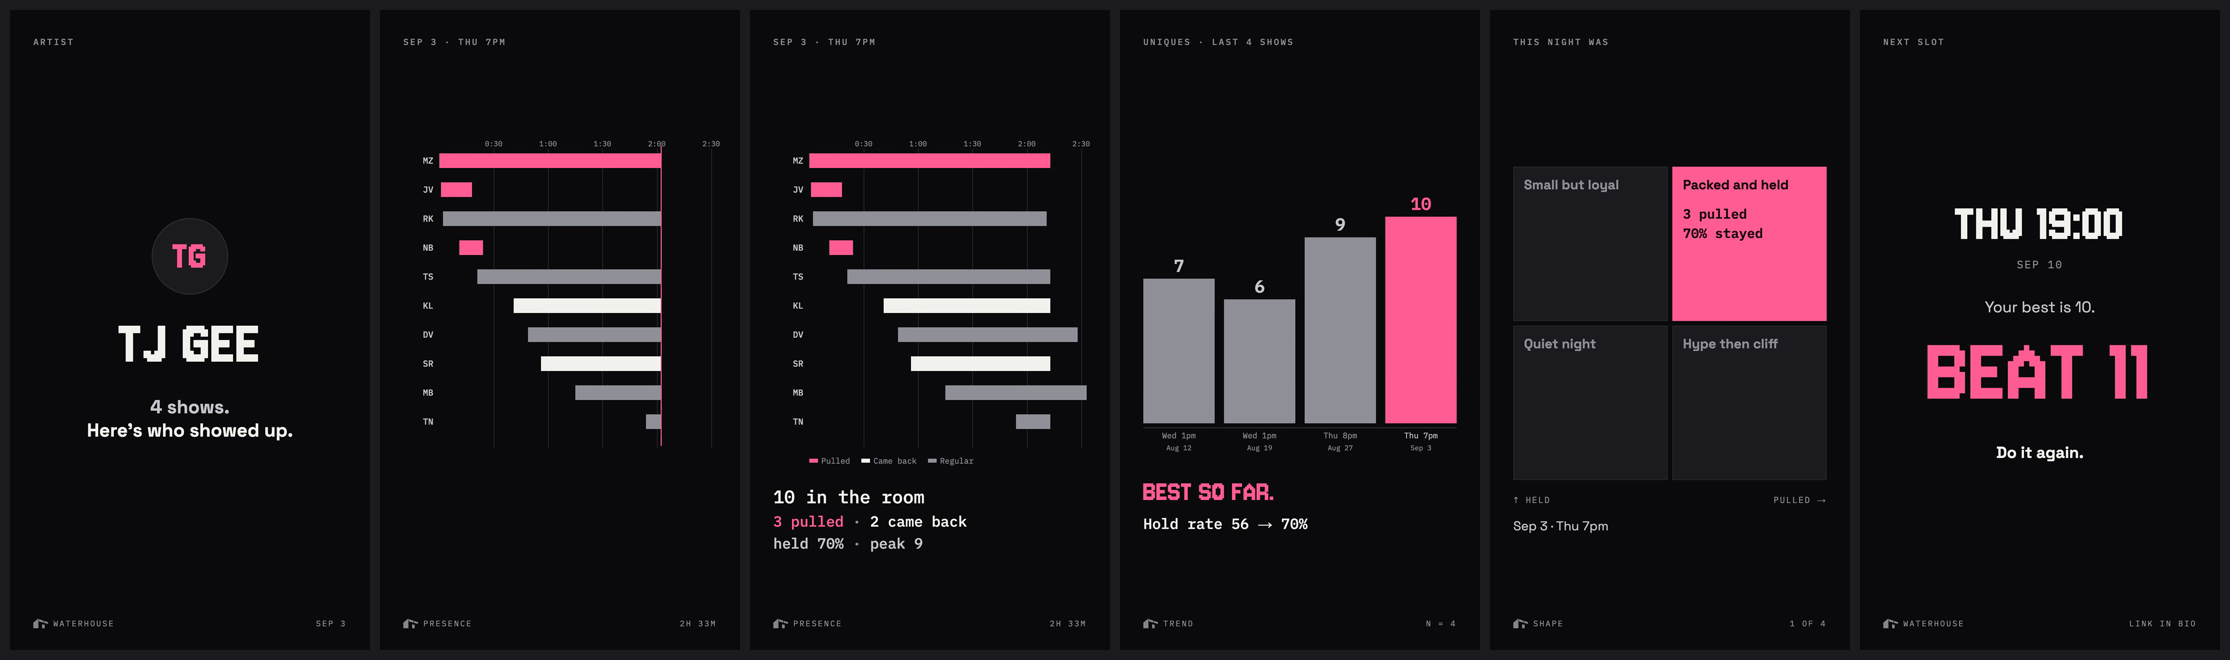
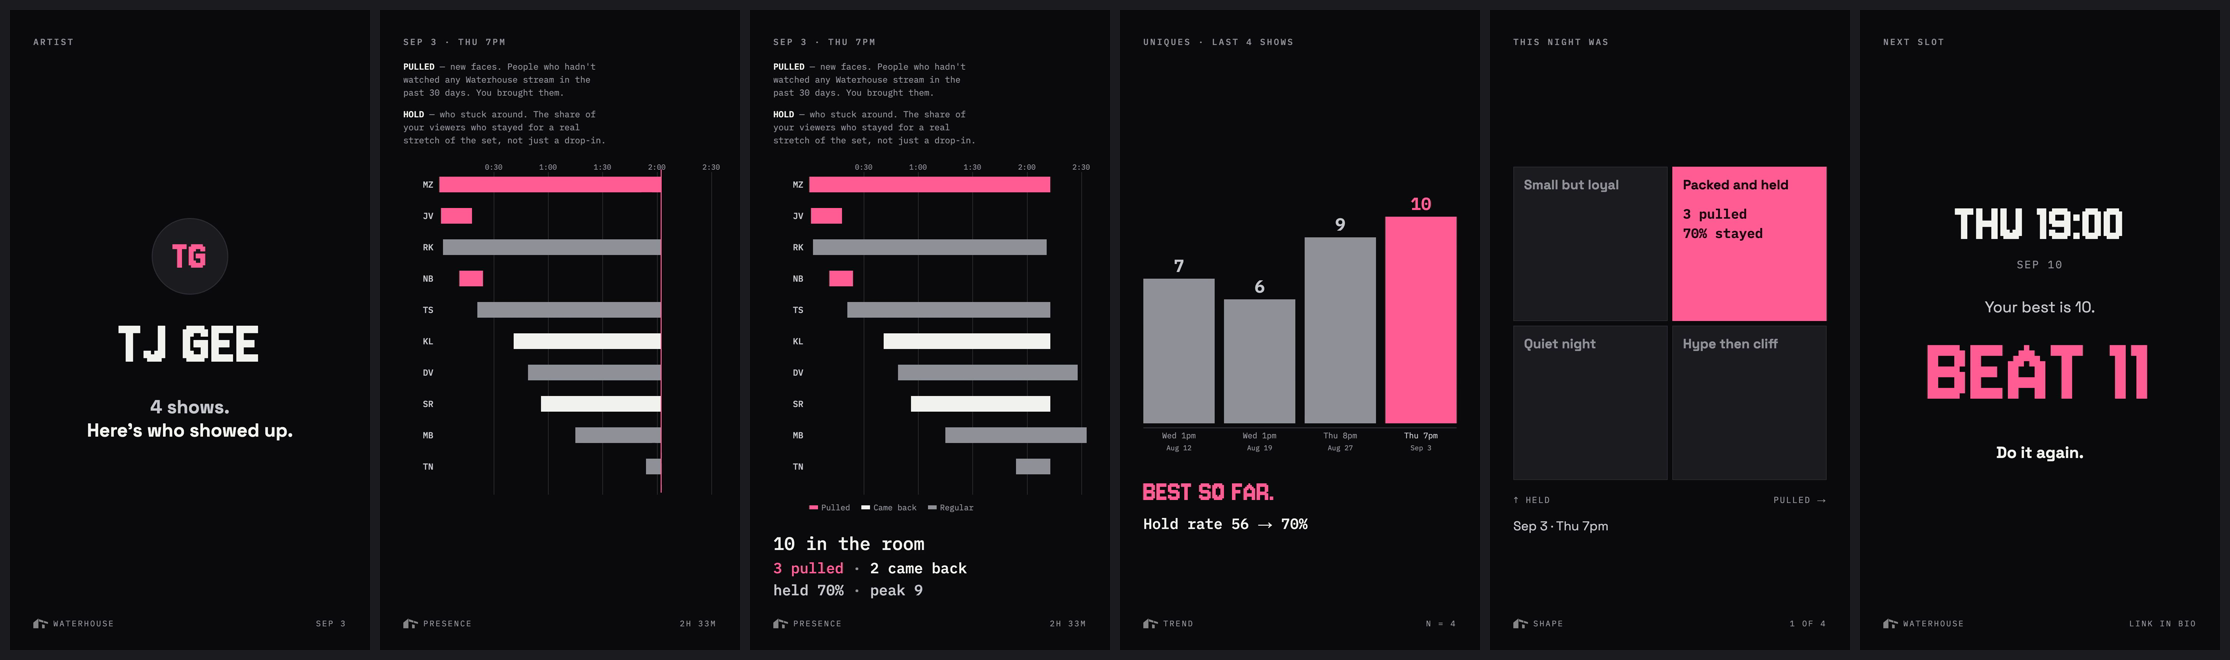
remotion-6: glossary for PULLED and HOLD on the bars beat
The two words the recap leans on go undefined everywhere else in the clip.
Spelled out in the empty band under the header, in the same words HouseWeekly
uses, so an artist meets one vocabulary across both videos.

Fades in with the header and settles at frame 10, two frames before the
playhead starts drawing, so nothing competes for the eye during the sweep.
The plot and the count line move down to make room - rows get taller, not
shorter. The swatch legend under the chart is unchanged.

Claude-Session: https://claude.ai/code/session_012BD4WrKMAWbbW9H9MHaS3r

Changed region(s): [[0.3404, 0.0909, 0.4951, 0.9091], [0.1857, 0.0909, 0.3094, 0.7273]]

diff --git a/src/ArtistRecap.tsx b/src/ArtistRecap.tsx
@@ -421,8 +421,26 @@ const TypedLine: React.FC<{
 const CHART_LEFT = PAD + 108;
 const CHART_RIGHT = W - PAD;
 const CHART_WIDTH = CHART_RIGHT - CHART_LEFT;
-const CHART_TOP = 430;
-const CHART_BOTTOM = 1300;
+const CHART_TOP = 500;
+const CHART_BOTTOM = 1440;
+const COUNT_LINE_TOP = 1560;
+const GLOSSARY_TOP = 150;
+// ~40 mono chars at 26px, which is where both entries break to three lines.
+const GLOSSARY_WIDTH = 630;
+
+// The two words the artist meets in every recap and on the weekly board.
+// Spelled out here verbatim as HouseWeekly spells them, so the two videos
+// teach the same vocabulary.
+const GLOSSARY: { term: string; text: string }[] = [
+  {
+    term: "PULLED",
+    text: " \u2014 new faces. People who hadn't watched any Waterhouse stream in the past 30 days. You brought them.",
+  },
+  {
+    term: "HOLD",
+    text: " \u2014 who stuck around. The share of your viewers who stayed for a real stretch of the set, not just a drop-in.",
+  },
+];
 
 const SWEEP_START = 12;
 const SWEEP_END = 116;
@@ -488,6 +506,34 @@ const WhoShowedUp: React.FC<{ session: SessionAudience }> = ({ session }) => {
       left="PRESENCE"
       right={durationLabel(session.durationMin)}
     >
+      {/* Settles before the first bar is drawn, so nothing competes for the
+          eye while the playhead runs. */}
+      <div
+        style={{
+          position: "absolute",
+          top: GLOSSARY_TOP,
+          left: PAD,
+          width: GLOSSARY_WIDTH,
+          opacity: fadeIn(frame, 0, 10),
+        }}
+      >
+        {GLOSSARY.map((g, i) => (
+          <div
+            key={g.term}
+            style={{
+              fontFamily: monoFont,
+              fontSize: 26,
+              lineHeight: 1.5,
+              color: GREY,
+              marginTop: i === 0 ? 0 : 26,
+            }}
+          >
+            <span style={{ color: INK, fontWeight: 600 }}>{g.term}</span>
+            {g.text}
+          </div>
+        ))}
+      </div>
+
       {empty ? (
         <div
           style={{
@@ -686,7 +732,7 @@ const WhoShowedUp: React.FC<{ session: SessionAudience }> = ({ session }) => {
       <div
         style={{
           position: "absolute",
-          top: 1420,
+          top: COUNT_LINE_TOP,
           left: PAD,
           width: CONTENT_W,
         }}
